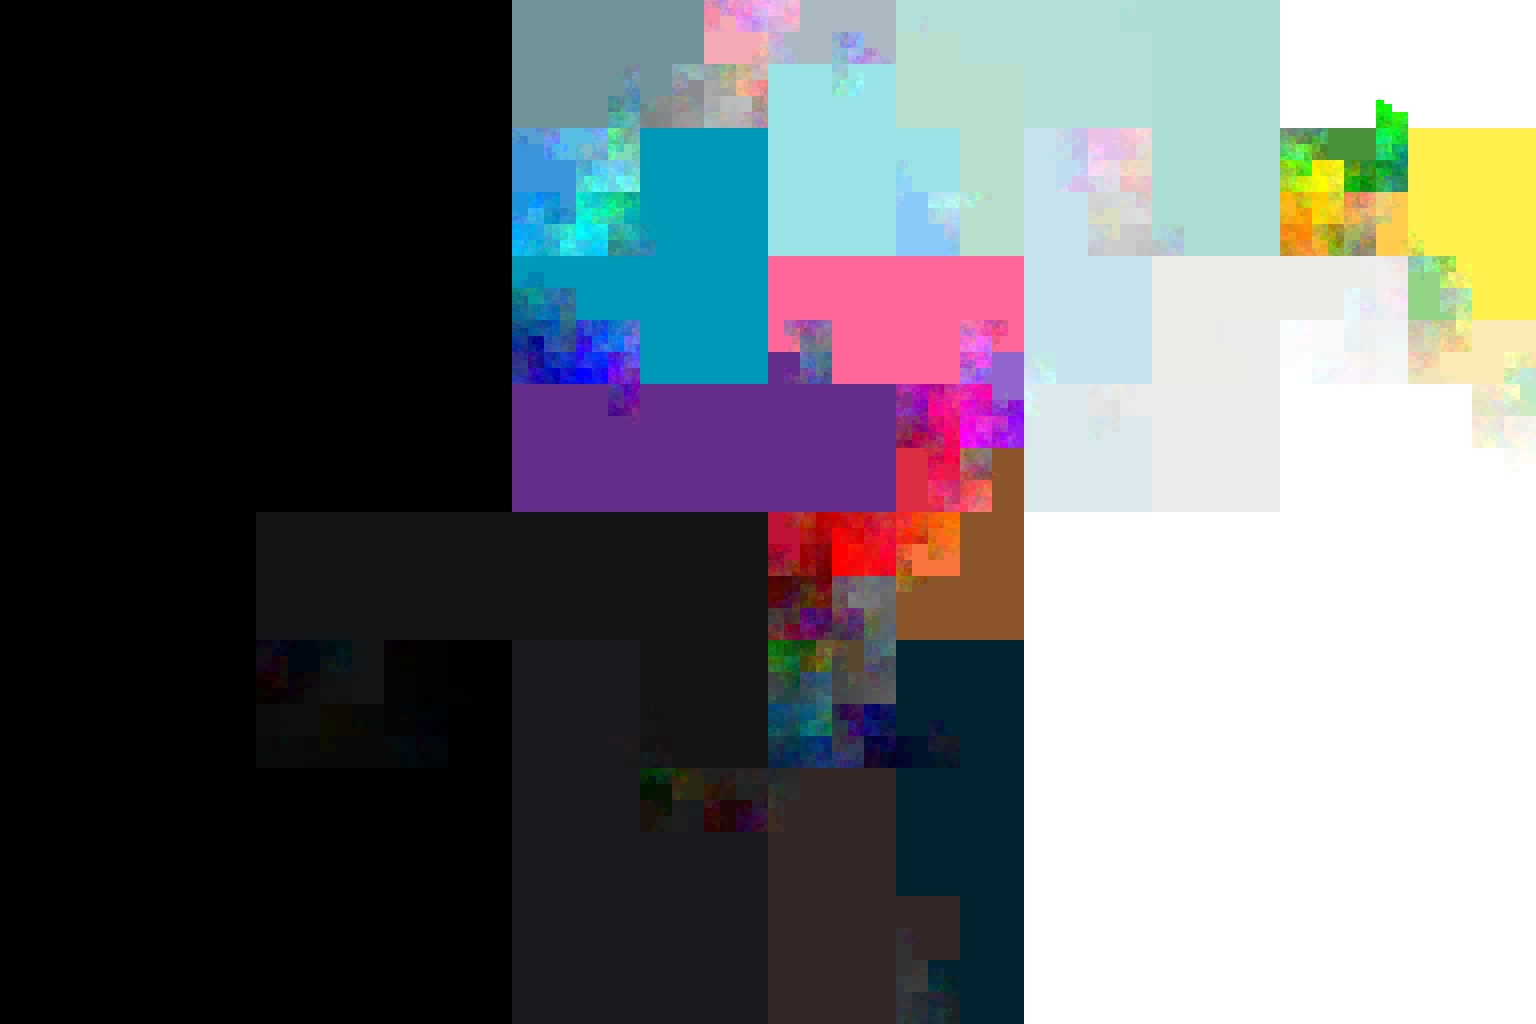
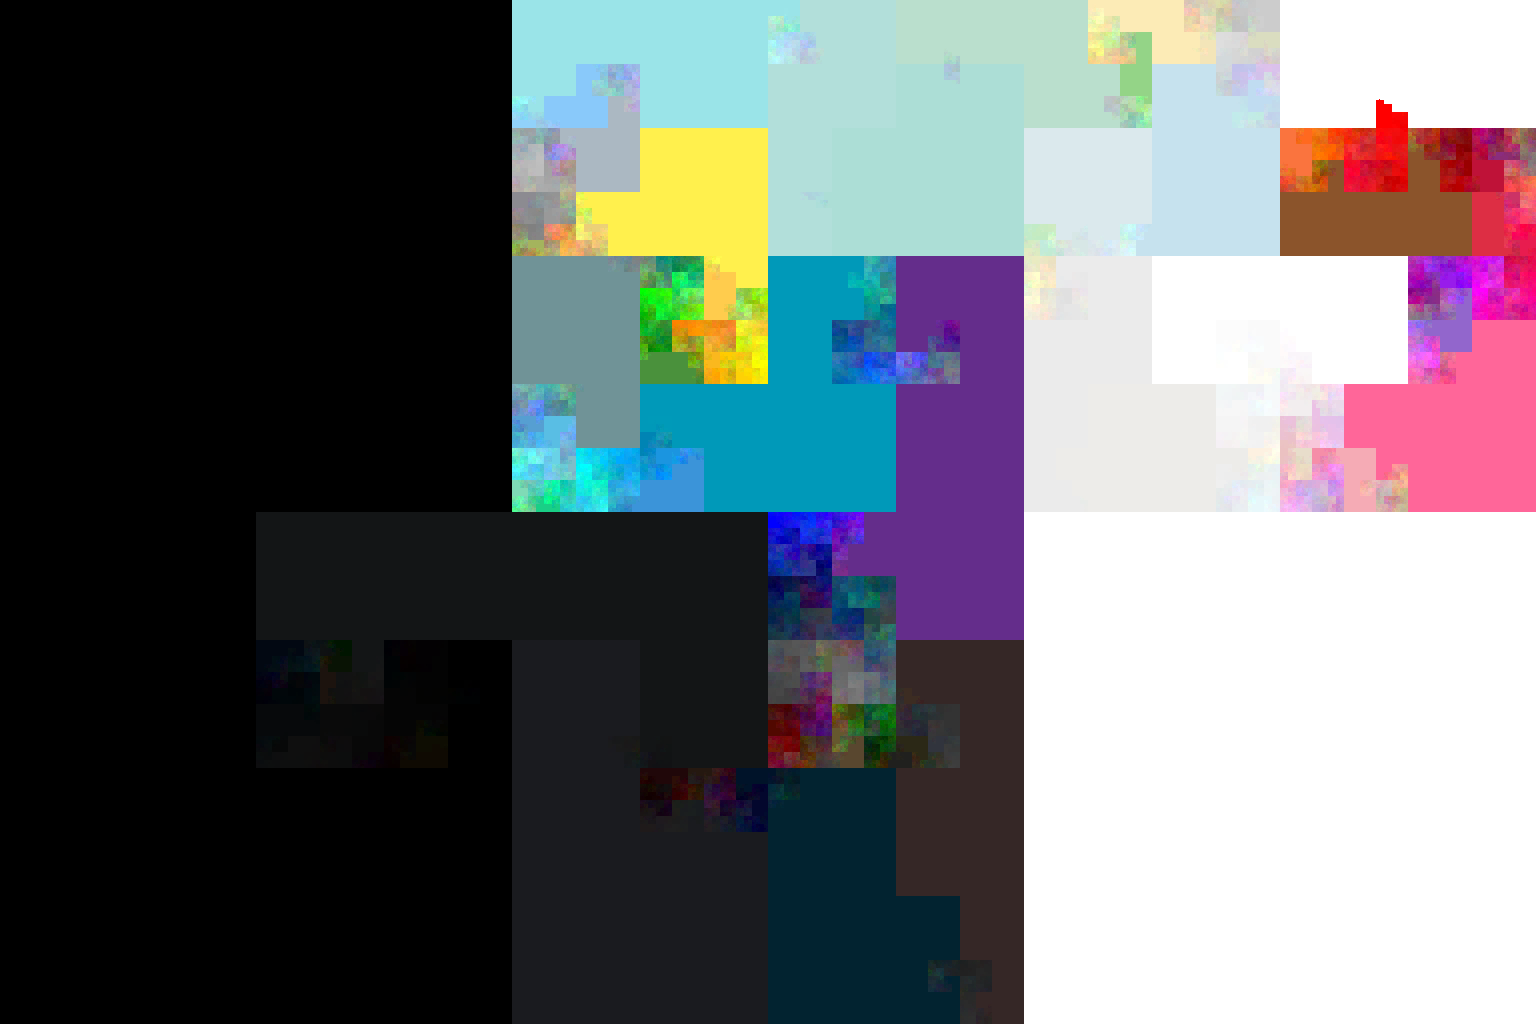
fixedd a wrong parameter
does only change the order of the colors, and makes it much faster

diff --git a/content/en/twitter-background.md b/content/en/twitter-background.md
@@ -63,7 +63,8 @@ def plot_background_colors(color_histogram, filename="colors.png"):
     buf = [[0 for _ in range(4 * width)] for _ in range(width)]
 
     hc2 = HilbertCurve(exponent, 2)
-    hc3 = HilbertCurve(256, 3)
+    # there are 256 = 2^8 values in each direction of the RGB cube
+    hc3 = HilbertCurve(8, 3)
 
     sorted_rgbs = sorted(data.keys(), key=lambda x: hc3.distance_from_point(x))
 

diff --git a/content/twitter-background.md b/content/twitter-background.md
@@ -63,7 +63,8 @@ def plot_background_colors(color_histogram, filename="colors.png"):
     buf = [[0 for _ in range(4 * width)] for _ in range(width)]
 
     hc2 = HilbertCurve(exponent, 2)
-    hc3 = HilbertCurve(256, 3)
+    # there are 256 = 2^8 values in each direction of the RGB cube
+    hc3 = HilbertCurve(8, 3)
 
     sorted_rgbs = sorted(data.keys(), key=lambda x: hc3.distance_from_point(x))
 
